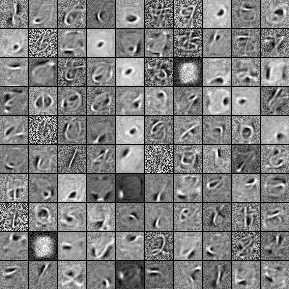
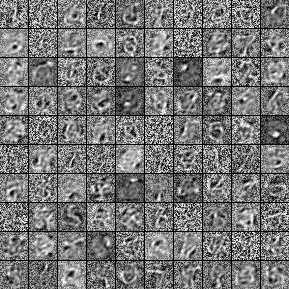
Separated sampling from test-set to sample_from_rbm() Shows figure1, figure2 and figure3 live, if we are running on graphical display. In figure1 is weights, in figure2 Gibbs sampling of test set, in figure 3 costs and sum of squared Ws, vbiases and hbiases. Sampling from test set is tried after eve

diff --git a/code/rbm.py b/code/rbm.py
@@ -7,7 +7,12 @@ to those without visible-visible and hidden-hidden connections.
 
 from __future__ import print_function
 
+import sys
 import timeit
+import time
+import inspect
+import pickle
+import signal
 
 try:
     import PIL.Image as Image
@@ -24,6 +29,14 @@ from theano.sandbox.rng_mrg import MRG_RandomStreams as RandomStreams
 
 from utils import tile_raster_images
 from logistic_sgd import load_data
+
+# Stop training when SIGINT given.
+done_looping=False
+def signal_handler(signal, frame):
+        print('You pressed Ctrl+C or otherwise (SIGINT) terminated. Wait loop to end.')
+        global done_looping
+        done_looping=True
+signal.signal(signal.SIGINT, signal_handler)
 
 # Check if we are running with or without graphical display.
 if (os.environ.get("DISPLAY", "NONE") == "NONE"):
@@ -77,7 +90,8 @@ class RBM(object):
 
         if numpy_rng is None:
             # create a number generator
-            numpy_rng = numpy.random.RandomState(1234)
+            numpy_rng = numpy.random.RandomState(None) # Was 1234
+        self.numpy_rng = numpy_rng
 
         if theano_rng is None:
             theano_rng = RandomStreams(numpy_rng.randint(2 ** 30))
@@ -214,7 +228,7 @@ class RBM(object):
                 pre_sigmoid_v1, v1_mean, v1_sample]
 
     # start-snippet-2
-    def get_cost_updates(self, lr=0.1, persistent=None, k=1):
+    def get_cost_updates(self, lr=0.1, persistent=None, k=1, random_start = False):
         """This functions implements one step of CD-k or PCD-k
 
         :param lr: learning rate used to train the RBM
@@ -223,7 +237,8 @@ class RBM(object):
             containing old state of Gibbs chain. This must be a shared
             variable of size (batch size, number of hidden units).
 
-        :param k: number of Gibbs steps to do in CD-k/PCD-k
+        :param k: number of Gibbs steps to do in CD-k/PCD-k. If
+            if k=0, initialise v-layer with random sample.
 
         Returns a proxy for the cost and the updates dictionary. The
         dictionary contains the update rules for weights and biases but
@@ -233,11 +248,11 @@ class RBM(object):
         """
 
         # compute positive phase
-        if (k > 0):
+        if (random_start == False):
             pre_sigmoid_ph, ph_mean, ph_sample = self.sample_h_given_v(self.input)
         else:
-            random_input = 0
-            pre_sigmoid_ph, ph_mean, ph_sample = self.sample_h_given_v(self.input)
+            random_input = self.theano_rng.binomial(size=self.input.shape, n=1, p=0.5, dtype=theano.config.floatX)
+            pre_sigmoid_ph, ph_mean, ph_sample = self.sample_h_given_v(random_input)
 
         # decide how to initialize persistent chain:
         # for CD, we use the newly generate hidden sample
@@ -374,8 +389,8 @@ class RBM(object):
 
 def test_rbm(learning_rate=0.1, training_epochs=15,
              dataset='mnist.pkl.gz', batch_size=20,
-             n_chains=20, n_samples=10, output_folder='rbm_plots',
-             n_hidden=500, persistent_chain_start=None):
+             n_chains=20, n_samples=10, output_folder=None,
+             n_hidden=500, persistent_chain_start=None, test_often=False):
     """
     Demonstrate how to train and afterwards sample from it using Theano.
 
@@ -395,6 +410,8 @@ def test_rbm(learning_rate=0.1, training_epochs=15,
     
     :param persistent_chain_start: start with something else but training data
     
+    :param test_often: Do we sample with test-set after each epoch?
+    
 
     """
     datasets = load_data(dataset)
@@ -409,7 +426,7 @@ def test_rbm(learning_rate=0.1, training_epochs=15,
     index = T.lscalar()    # index to a [mini]batch
     x = T.matrix('x')  # the data is presented as rasterized images
 
-    rng = numpy.random.RandomState(123)
+    rng = numpy.random.RandomState(None) # was 123
     theano_rng = RandomStreams(rng.randint(2 ** 30))
 
     # initialize storage for the persistent chain (state = hidden
@@ -423,18 +440,26 @@ def test_rbm(learning_rate=0.1, training_epochs=15,
               n_hidden=n_hidden, numpy_rng=rng, theano_rng=theano_rng)
 
     # get the cost and the gradient corresponding to one step of CD-15
-    cost, updates = rbm.get_cost_updates(lr=learning_rate, persistent=persistent_chain, k=15)
+    cost, updates = rbm.get_cost_updates(lr=learning_rate, persistent=persistent_chain, 
+                                         k=15, random_start=False)
     
-    # Initialize with None.
-    #cost, updates = rbm.get_cost_updates(lr=learning_rate, persistent=None, k=1) # k=15)
+    # Initialize with random input.
+    #cost, updates = rbm.get_cost_updates(lr=learning_rate, persistent=None, k=15, random_start=True)
+    
+    start_str = time.strftime("%Y-%m-%d_%H-%M-%S")
+    if (output_folder == None):
+        output_folder = "rbm_data_" + start_str
+        if not os.path.isdir(output_folder):
+            os.makedirs(output_folder)
+        os.chdir(output_folder)
+
+    # Save model after init but not yet trained.
+    with open('rbm_model_init_' + start_str + '.pkl', 'wb') as f:
+        pickle.dump(rbm, f)
 
     #################################
     #     Training the RBM          #
     #################################
-    if not os.path.isdir(output_folder):
-        os.makedirs(output_folder)
-    os.chdir(output_folder)
-
     # start-snippet-5
     # it is ok for a theano function to have no output
     # the purpose of train_rbm is solely to update the RBM parameters
@@ -454,13 +479,26 @@ def test_rbm(learning_rate=0.1, training_epochs=15,
     global havedisplay
     fig1 = None
     fig2 = None
+    fig3 = None
     if (havedisplay == True):
-        fig1 = plt.figure()
-        fig2 = plt.figure()
+        fig1 = plt.figure() # Visualise W.
+        fig2 = plt.figure() # Visualise samples.
+        fig3 = plt.figure() # Average costs, sum of squares Ws,vbiases,hbiases.
+        ax1 = fig3.add_subplot(221) 
+        ax2 = fig3.add_subplot(222)
+        ax3 = fig3.add_subplot(223)
+        ax4 = fig3.add_subplot(224) 
         
+    costs = []
+    Ws =[]
+    vbiases = []
+    hbiases = []
+    
     # go through training epochs
-    for epoch in range(training_epochs):
-
+    global done_looping
+    epoch = 0
+    while (epoch < training_epochs) and (not done_looping):
+        epoch = epoch + 1
         # go through the training set
         mean_cost = []
         for batch_index in range(n_train_batches):
@@ -468,7 +506,13 @@ def test_rbm(learning_rate=0.1, training_epochs=15,
 
         mean_mean_cost = numpy.mean(mean_cost)
         print('Training epoch %d, cost is ' % epoch, mean_mean_cost)
-
+        
+        # Collect some data to monitor learning.
+        costs += [mean_mean_cost]
+        Ws += [squared_sum(rbm.W)]
+        vbiases += [squared_sum(rbm.vbias)]
+        hbiases += [squared_sum(rbm.hbias)]
+        
         # Plot filters after each training epoch
         plotting_start = timeit.default_timer()
         # Construct image from the weight matrix
@@ -480,21 +524,42 @@ def test_rbm(learning_rate=0.1, training_epochs=15,
                 tile_spacing=(1, 1)
             )
         )
-        # Plot live to screen if we have graphical display.
+        # Plot weights and costs live to screen if we have graphical display.
         if (havedisplay == True):
             plt.figure(1)
             fig1.clear()
             plt.imshow(image, cmap='Greys_r')
-            plt.title('at_epoch %i, cost is %i' % (epoch, round(mean_mean_cost)))
+            plt.title('After epoch %02i, cost is %i' % (epoch, round(mean_mean_cost)))
             plt.draw()
             plt.show(block=False)
+            
+            if (epoch > 0):
+                plt.figure(3)
+                ax1.plot(range(1,epoch+1), costs)
+                ax1.set_title('costs')
+                ax2.plot(range(1,epoch+1), Ws)
+                ax2.set_title('Ws')
+                ax3.plot(range(1,epoch+1), vbiases)
+                ax3.set_title('vbiases')
+                ax4.plot(range(1,epoch+1), hbiases)
+                ax4.set_title('hbiases')
+                #plt.title('costs sum_of_sq Ws vbiases hbiases after %i epochs' % epoch)
+                plt.draw()
+                plt.show(block=False)
+                
         
-        image.save('filters_at_epoch_%i.png' % epoch)
+        image.save('filters_at_epoch_%02i.png' % epoch)
+        plt.figure(3); 
+        plt.savefig('avecosts-Ws-vbiases-biases-at_epoch_%02i.png' % epoch)
+        
         plotting_stop = timeit.default_timer()
         plotting_time += (plotting_stop - plotting_start)
 
-        # See the test sample after every epoch.
-        sample_from_rbm(rbm, test_set_x, rng, n_chains, n_samples, output_folder, epoch, fig2)
+        if (test_often is True):
+            # See the test sample after every epoch.
+            print_sq_params(rbm)
+            sample_from_rbm(rbm, test_set_x, rng, n_chains, n_samples, epoch=epoch, tofigure=2, plot_every=1000)
+            print_sq_params(rbm)
 
     end_time = timeit.default_timer()
 
@@ -502,28 +567,40 @@ def test_rbm(learning_rate=0.1, training_epochs=15,
 
     print ('Training took %f minutes' % (pretraining_time / 60.))
     # end-snippet-5 start-snippet-6
-
-    # sample_from_rbm(rbm, test_set_x, rng, n_chains, n_samples, output_folder, epoch, fig2)
     
-def sample_from_rbm(rbm, test_set_x, rng, n_chains, n_samples, output_folder, epoch=None, fig2=None):  
+    # Save model
+    with open('rbm_model_end_%02i' % epoch + "_" 
+              + time.strftime("%Y-%m-%d_%H-%M-%S") + '.pkl', 'wb') as f:
+        pickle.dump(rbm, f)
+        
+    if (test_often is False):
+        sample_from_rbm(rbm, test_set_x, rng, n_chains, n_samples, epoch=epoch, tofigure=2)
+
+    # Return back from the created directory.
+    os.chdir('../')
+
+    
+def sample_from_rbm(rbm, test_set_x, rng, n_chains, n_samples, epoch=None, tofigure=None, output_folder=None, plot_every=None):  
     """
     :param rbm = the trained RBM model.
     :param epoch: How many epochs has been done.
+    Rest of the parameters are the same as in test_rbm().
     """
     
     #################################
     #     Sampling from the RBM     #
     #################################
-    # find out the number of test samples
-    if not os.path.isdir(output_folder):
-        os.makedirs(output_folder)
-    os.chdir(output_folder)
+    if (output_folder != None and output_folder != 0):
+        if not os.path.isdir(output_folder):
+            os.makedirs(output_folder)
+        os.chdir(output_folder)
     
     if (epoch == None):
         ecoch_str = 'Unknown'
     else:
-        epoch_str = '%i' % epoch
+        epoch_str = '%02i' % epoch
     
+    # find out the number of test samples
     number_of_test_samples = test_set_x.get_value(borrow=True).shape[0]
 
     # pick random test examples, with which to initialize the persistent chain
@@ -535,7 +612,9 @@ def sample_from_rbm(rbm, test_set_x, rng, n_chains, n_samples, output_folder, ep
         )
     )
     # end-snippet-6 start-snippet-7
-    plot_every = 1000
+    if (plot_every == None or plot_every == 0):
+        plot_every = 1000
+        
     # define one step of Gibbs sampling (mf = mean-field) define a
     # function that does `plot_every` steps before returning the
     # sample for plotting
@@ -594,16 +673,23 @@ def sample_from_rbm(rbm, test_set_x, rng, n_chains, n_samples, output_folder, ep
     image = Image.fromarray(image_data)
     image.save('samples-%s.png' % epoch_str)
     # end-snippet-7
-    os.chdir('../')
 
     if (havedisplay == True):
-        plt.figure(2)
+        fig2 = plt.figure(tofigure)
         fig2.clear()
         plt.imshow(image, cmap='Greys_r')
         plt.title('After %s epochs.' % epoch_str)
         plt.show(block=False)
         plt.draw()
         
+def squared_sum(x):
+    return numpy.sum(numpy.square(x.get_value()))
 
+# For debugging.
+def print_sq_params(rbm):
+    print("%s - Sums of squares W: %g, vbias: %g, hbias: %g" 
+          % (inspect.stack()[1][3],
+             squared_sum(rbm.W), squared_sum(rbm.vbias), squared_sum(rbm.hbias)))
+    
 if __name__ == '__main__':
-    test_rbm(batch_size=20, training_epochs=50)
+    test_rbm(batch_size=20, training_epochs=50, test_often=True)

diff --git a/code/logistic_sgd.py b/code/logistic_sgd.py
@@ -37,7 +37,8 @@ from __future__ import print_function
 
 __docformat__ = 'restructedtext en'
 
-import six.moves.cPickle as pickle
+#import six.moves.cPickle as pickle
+import pickle
 import gzip
 import os
 import sys
